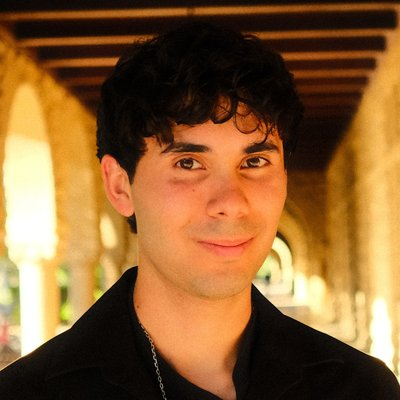
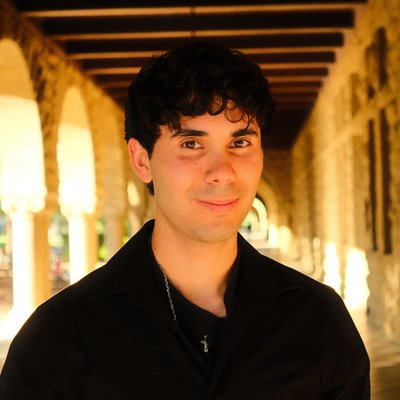
Widen member photo crops and keep photo frames circular

diff --git a/css/main.scss b/css/main.scss
@@ -110,8 +110,9 @@ p.byline {
 
 /* Team & Publications */
 .image-cropper {
-    width: 170px;
-    height: 170px;
+    width: 100%;
+    max-width: 170px;
+    aspect-ratio: 1; /* stay a circle when the column is narrower than 170px */
     position: relative;
     overflow: hidden;
     border-radius: 50%;
